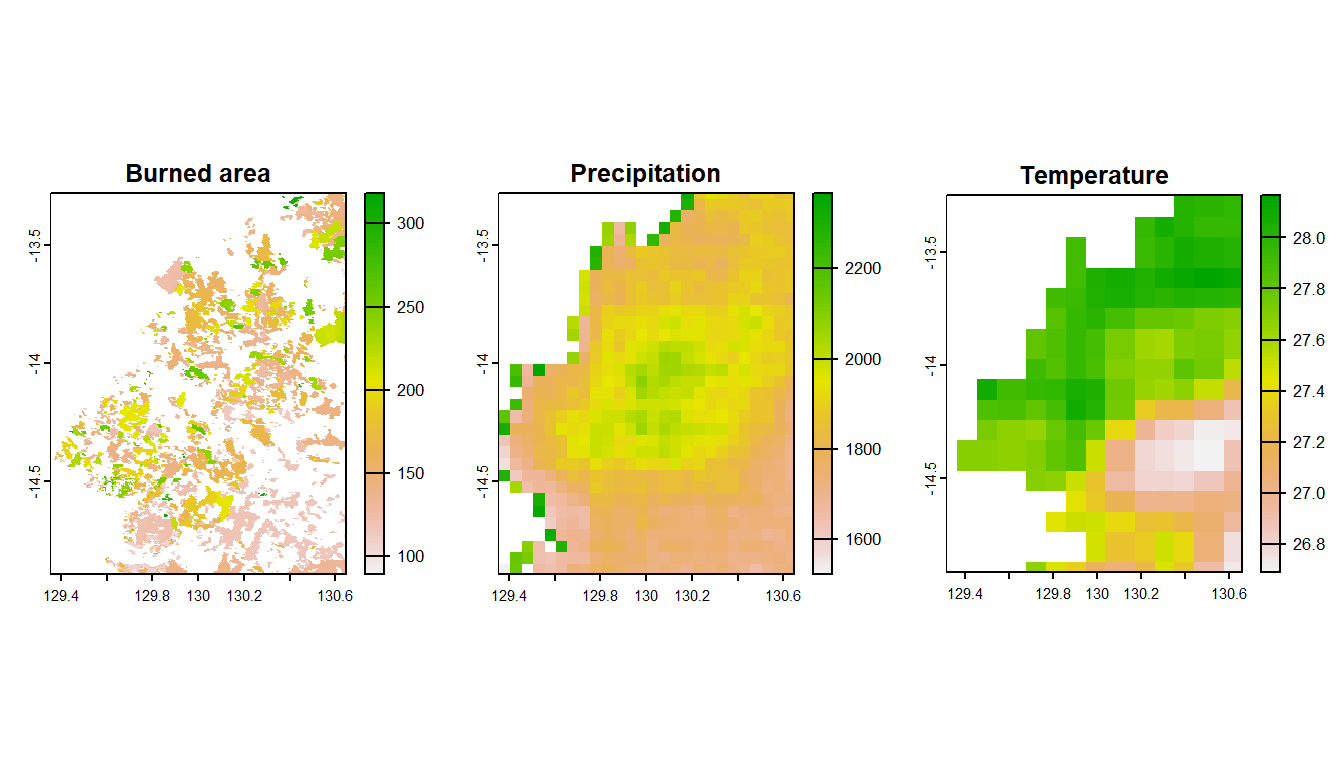
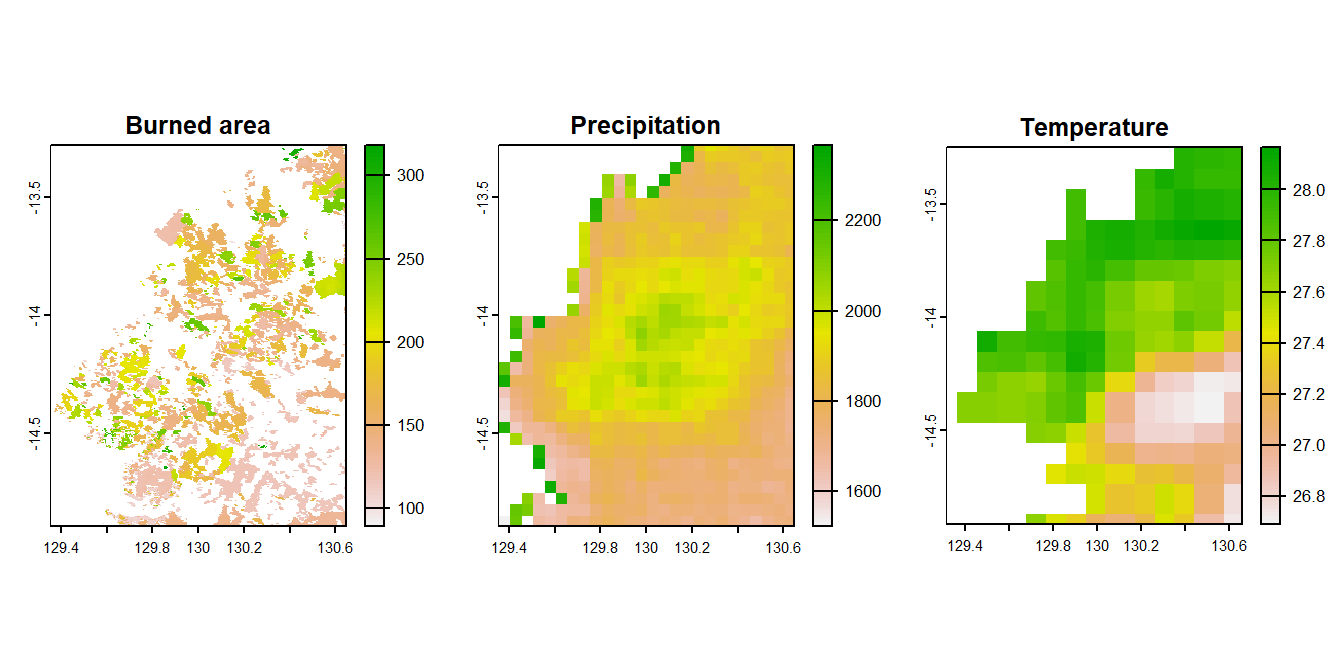
set figure3.1 height to 3.5

diff --git a/docs/sec3.html b/docs/sec3.html
@@ -747,7 +747,7 @@ window.document.addEventListener("DOMContentLoaded", function (event) {
 <span id="cb3-15"><a href="#cb3-15" aria-hidden="true" tabindex="-1"></a><span class="in">```{r fig-data-exploration, cache = FALSE, message = FALSE, echo=!knitr::is_latex_output()}</span></span>
 <span id="cb3-16"><a href="#cb3-16" aria-hidden="true" tabindex="-1"></a><span class="in">#| fig.cap: "Maps of the 2024 climate and bushfire data"</span></span>
 <span id="cb3-17"><a href="#cb3-17" aria-hidden="true" tabindex="-1"></a><span class="in">#| code-fold: true</span></span>
-<span id="cb3-18"><a href="#cb3-18" aria-hidden="true" tabindex="-1"></a><span class="in">#| fig.height: 4</span></span>
+<span id="cb3-18"><a href="#cb3-18" aria-hidden="true" tabindex="-1"></a><span class="in">#| fig.height: 3.5</span></span>
 <span id="cb3-19"><a href="#cb3-19" aria-hidden="true" tabindex="-1"></a><span class="in">library(terra)</span></span>
 <span id="cb3-20"><a href="#cb3-20" aria-hidden="true" tabindex="-1"></a></span>
 <span id="cb3-21"><a href="#cb3-21" aria-hidden="true" tabindex="-1"></a><span class="in">burnedarea = rast('./data/1. Data collection/BurnedArea/BurnedArea_2024.tif')</span></span>
